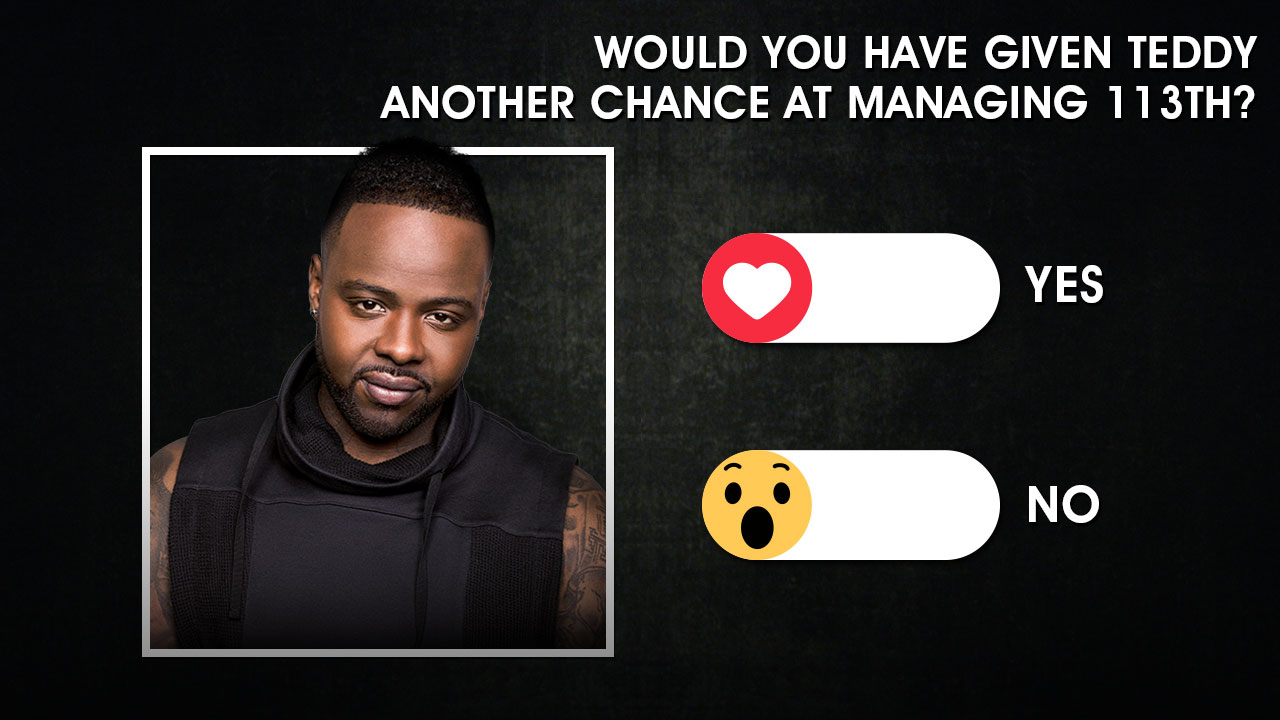
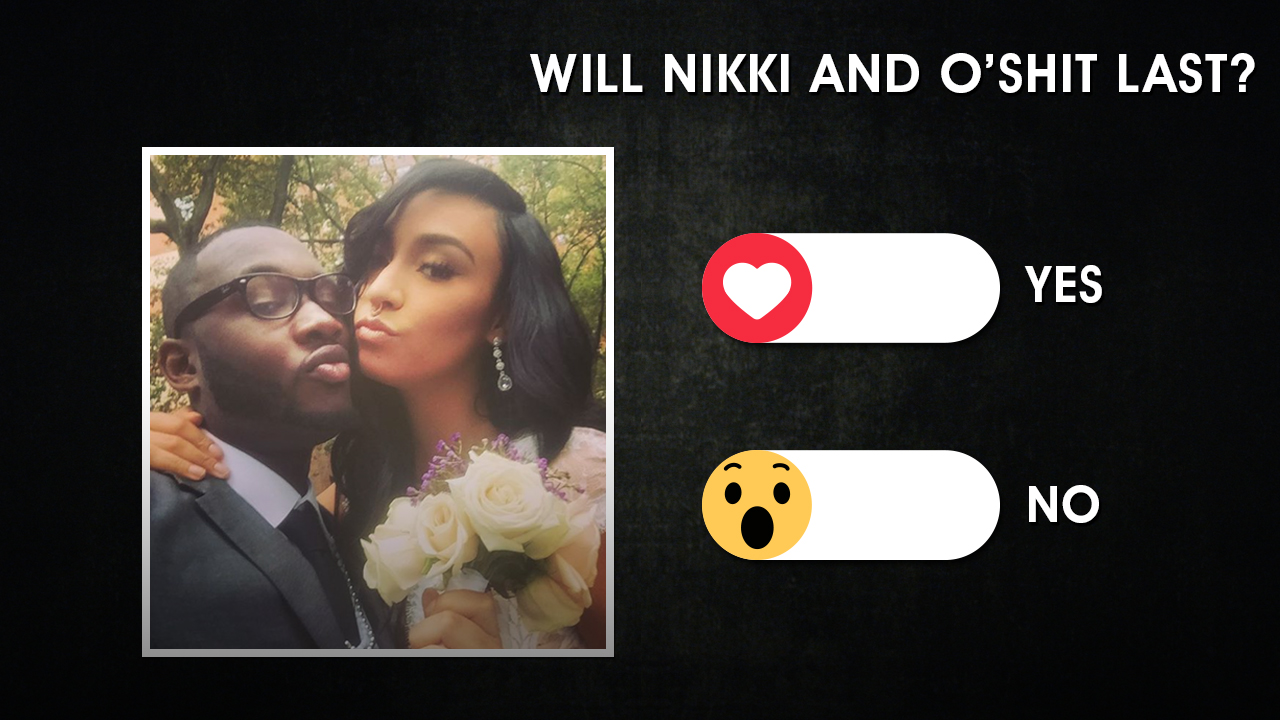
updated for black ink crew

Changed region(s): [[0.0938, 0.0306, 1.0, 0.9167], [0.8438, 0.3667, 0.875, 0.4278]]

diff --git a/css/page.css b/css/page.css
@@ -60,7 +60,7 @@ video
     font-size: 50px;
     font-weight: bold;
     background-color: none;
-    color: white;
+    color: black;
     text-align: left;
     padding: 10px;
     border-radius: 50px;
@@ -70,15 +70,15 @@ video
 
 #love {
     position: absolute;
-	top: 610px;
-    left: 145px;
+    top: 617px;
+    left: 765px;
 
 }
 
 #like {
     position: absolute;
-   	top: 610px;
-    left: 450px;
+    top: 617px;
+    left: 145px;
 
 }
 
@@ -86,15 +86,15 @@ video
 
 #haha {
     position: absolute;
-   	top: 610px;
-    left: 755px;
+      top: 617px;
+    left: 455px;
 
 }
 
 #wow {
     position: absolute;
-    	top: 610px;
-      left: 1060px;
+    top: 617px;
+    left: 1070px;
 }
 
 

diff --git a/index2.html b/index2.html
@@ -9,6 +9,28 @@
     background-image:url('css/bgimg2.jpg');
 }
 
+.voteValue{
+	color: black;
+	font-size: 70px;
+}
+
+#like
+{
+	display: none;
+}
+
+#haha
+{
+	display: none;
+}
+#love{
+	    top: 245px;
+    left: 810px;
+}
+#wow{
+	  left: 810px;
+	      top: 465px;
+}
 </style>
 </head>
 
